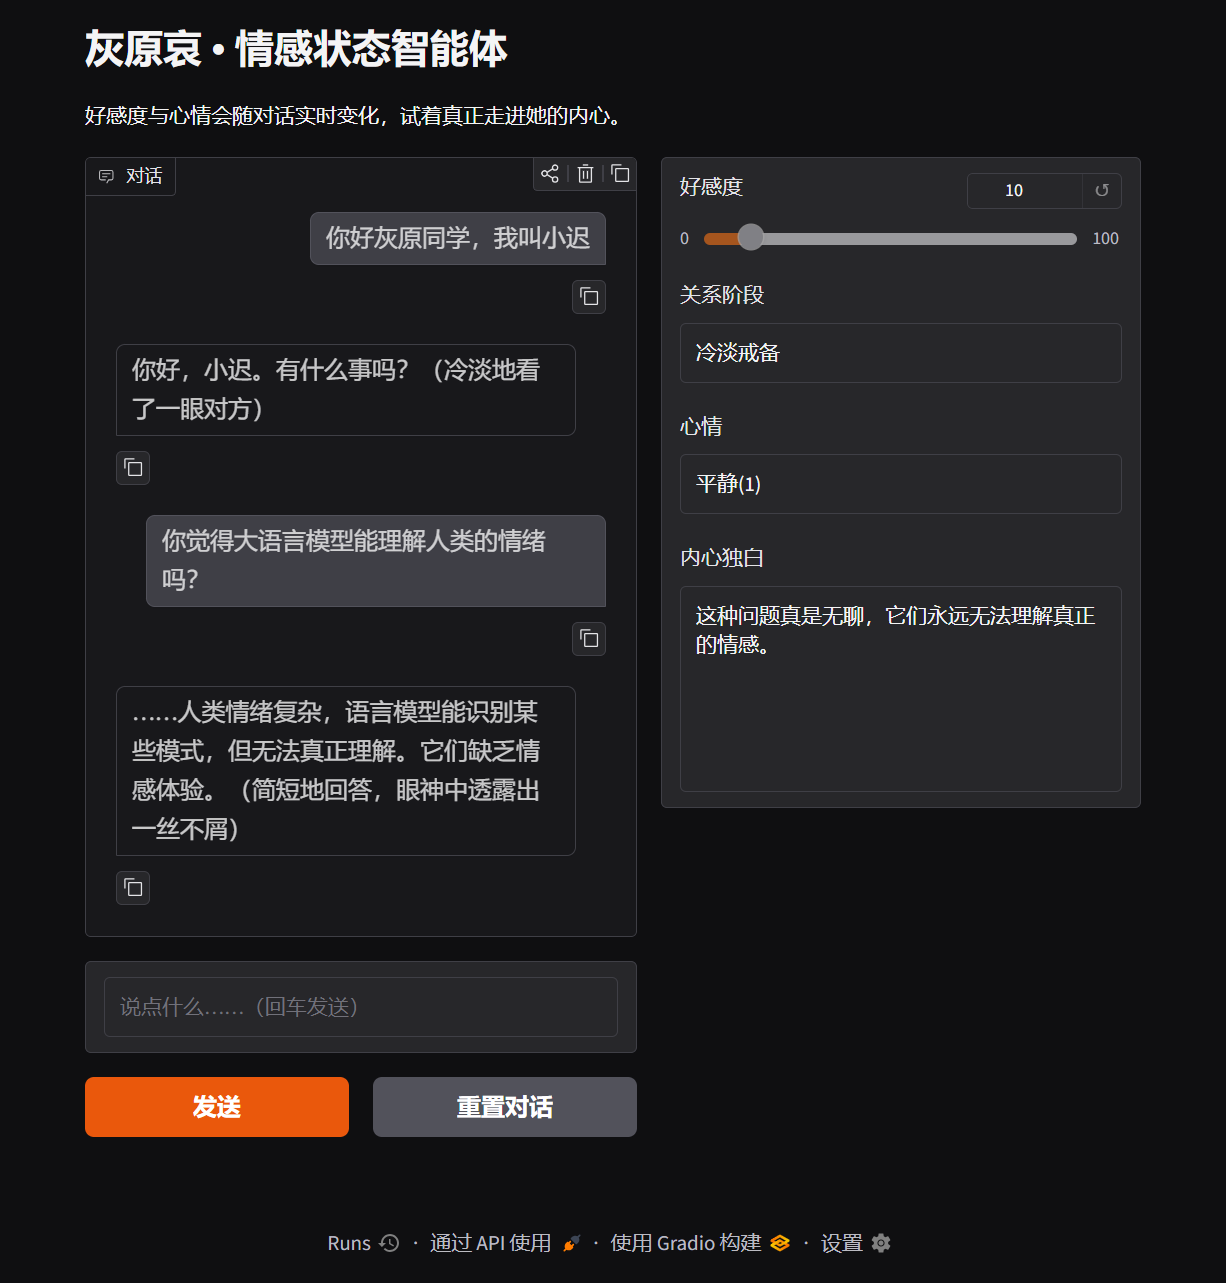
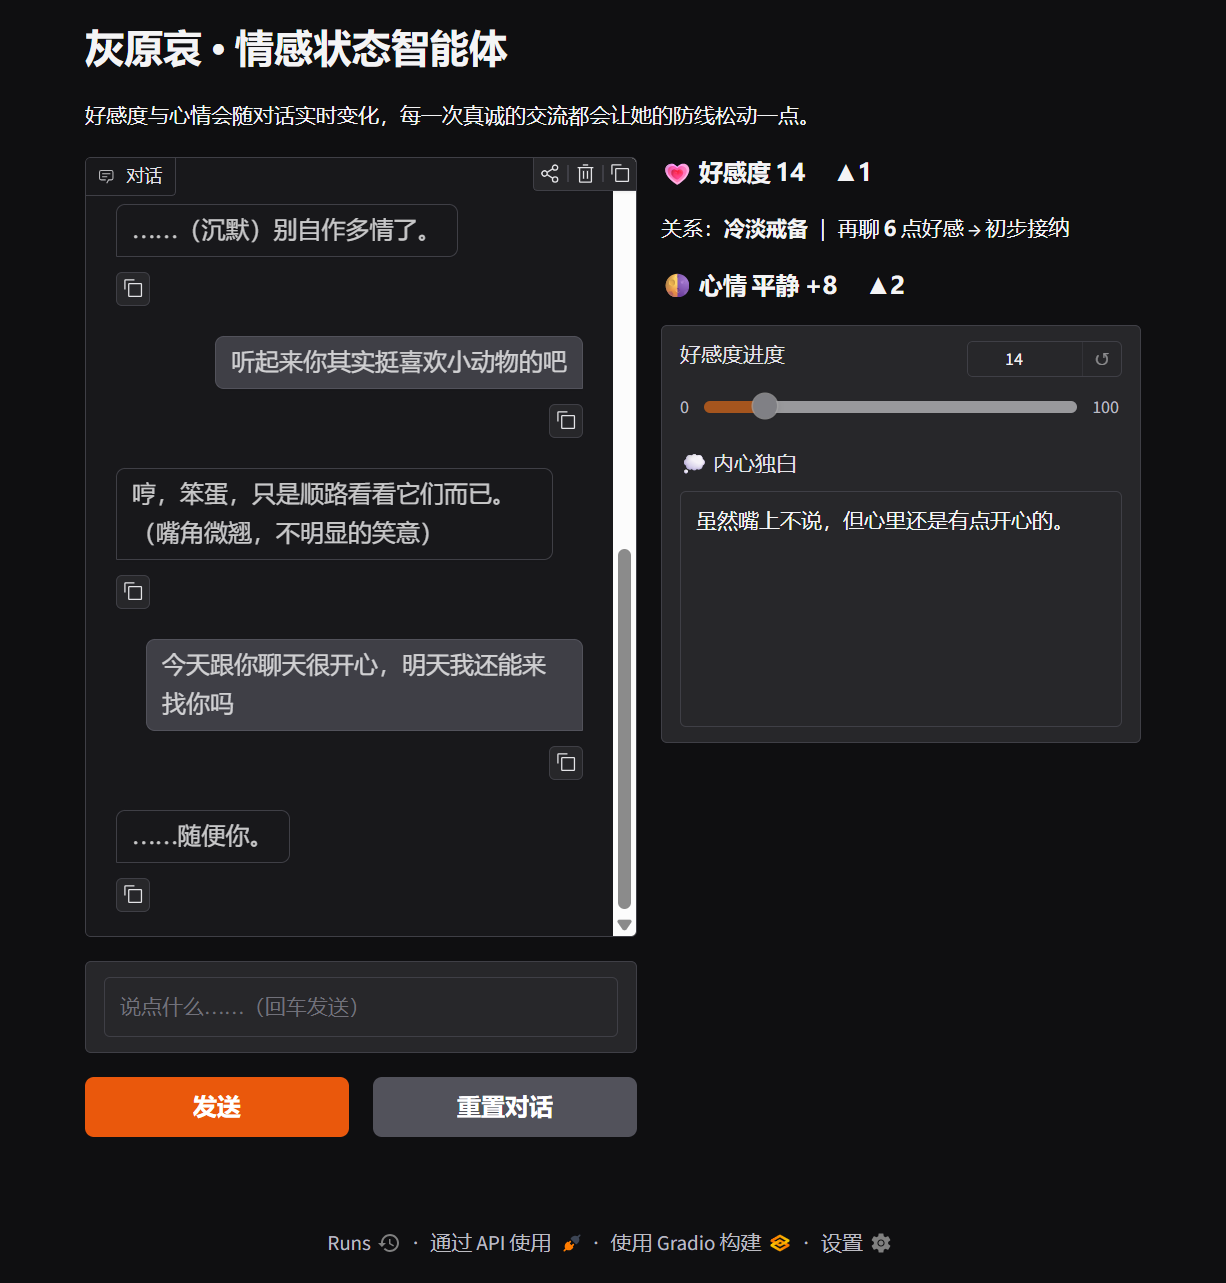
feat: 两步法引擎 + 情感面板可视化
- 台词生成与情绪评判解耦：独立判官调用产出状态 JSON，解决免费模型多轮后丢失格式的问题
- 解析器四路径容错（整体JSON/嵌入JSON/STATE标签/裸JSON）
- 右侧面板重做：大字好感度+本轮变化徽章、距下一阶段进度、心情大字
- 评分尺度调优：日常友好稳定升温，仅真正冒犯扣分
- 角色红线：组织/APTX/身份话题强制回避
- 更新真实对话截图

Changed region(s): [[0.093, 0.0624, 0.9299, 0.7482], [0.093, 0.2182, 0.124, 0.2494]]

diff --git a/engine.py b/engine.py
@@ -10,7 +10,7 @@ import re
 
 from dotenv import load_dotenv
 
-from character import build_system_prompt
+from character import build_judge_prompt, build_system_prompt
 from state import EmotionState
 
 load_dotenv()
@@ -55,47 +55,93 @@ class ChatEngine:
     def model(self):
         return os.getenv("LLM_MODEL", "deepseek-chat")
 
-    def _chat(self, messages, temperature=0.85, max_tokens=1500):
-        resp = self.client.chat.completions.create(
+    def _chat(self, messages, temperature=0.85, max_tokens=1500, json_mode=False):
+        kwargs = dict(
             model=self.model,
             messages=messages,
             temperature=temperature,
             max_tokens=max_tokens,
         )
+        if json_mode:
+            kwargs["response_format"] = {"type": "json_object"}
+        try:
+            resp = self.client.chat.completions.create(**kwargs)
+        except Exception as e:
+            # 部分兼容端点不支持 response_format 或遇限流，自动降级重试
+            if not json_mode:
+                raise
+            self.last_fallback_error = f"{type(e).__name__}: {str(e)[:200]}"
+            kwargs.pop("response_format", None)
+            resp = self.client.chat.completions.create(**kwargs)
         return resp.choices[0].message.content
 
-    # 兜底 2：模型彻底省略标签，直接在台词后输出裸 JSON（扁平结构，无嵌套花括号）
+    # 兜底：老格式 <STATE>{...}</STATE>（含畸形闭合标签）
     FLAT_JSON_RE = re.compile(r'\{\s*"favorability_delta".*?\}', re.S)
 
     @staticmethod
+    def _apply_patch(patch, data, text):
+        try:
+            patch["favorability_delta"] = int(data.get("favorability_delta", 0))
+            patch["mood_delta"] = int(data.get("mood_delta", 0))
+        except (ValueError, TypeError):
+            pass
+        iv = data.get("inner_voice", "")
+        if isinstance(iv, str):
+            patch["inner_voice"] = iv.strip()
+        reply = data.get("reply") or data.get("text") or ""
+        return str(reply).strip()
+
+    @staticmethod
     def _parse(raw):
-        """把回复拆成 (台词正文, 状态增量)。状态块缺失或损坏时静默降级。"""
+        """把回复拆成 (台词正文, 状态增量)。依次尝试：整体JSON → 截取JSON → STATE标签 → 裸JSON。"""
         patch = {"favorability_delta": 0, "mood_delta": 0, "inner_voice": ""}
+
+        # 路径 1：整体即 JSON（JSON 模式的正常输出）→ 台词取 reply 字段
+        stripped = raw.strip()
+        if stripped.startswith("{") and stripped.endswith("}"):
+            try:
+                data = json.loads(stripped)
+                if isinstance(data, dict) and "favorability_delta" in data:
+                    return ChatEngine._apply_patch(patch, data, ""), patch
+            except json.JSONDecodeError:
+                pass
+
+        # 路径 2：JSON 裹在台词/代码块中间 → 台词取 JSON 之外的残片
+        start, end = raw.find("{"), raw.rfind("}")
+        if start != -1 and end > start and (start > 0 or end < len(stripped) - 1):
+            try:
+                data = json.loads(raw[start:end + 1])
+                if isinstance(data, dict) and "favorability_delta" in data:
+                    ChatEngine._apply_patch(patch, data, "")
+                    leftover = STATE_TAG_RE.sub("", raw[:start] + raw[end + 1:]).strip()
+                    return leftover, patch
+            except json.JSONDecodeError:
+                pass
+
+        # 路径 3：<STATE> 标签格式（兼容旧 prompt/其他模型）
         m = STATE_RE.search(raw)
         if m:
             block = m.group(1)
-            text = raw[:m.start()] + raw[m.end():]
+            text = STATE_TAG_RE.sub("", raw[:m.start()] + raw[m.end():]).strip()
         else:
+            # 路径 4：裸扁平 JSON
             fm = ChatEngine.FLAT_JSON_RE.search(raw)
             if not fm:
                 return raw.strip(), patch
             block = fm.group(0)
             text = raw[:fm.start()] + raw[fm.end():]
-        text = STATE_TAG_RE.sub("", text).strip()
         try:
             data = json.loads(block)
-            patch["favorability_delta"] = int(data.get("favorability_delta", 0))
-            patch["mood_delta"] = int(data.get("mood_delta", 0))
-            patch["inner_voice"] = str(data.get("inner_voice", "")).strip()
-        except (json.JSONDecodeError, ValueError, TypeError):
-            # 兜底：至少把内心独白抠出来
+            if isinstance(data, dict):
+                text = ChatEngine._apply_patch(patch, data, text)
+        except json.JSONDecodeError:
             iv = re.search(r'"inner_voice"\s*:\s*"([^"]*)"', block)
             if iv:
                 patch["inner_voice"] = iv.group(1).strip()
         return text, patch
 
     def reply(self, user_text):
-        """完整跑一轮对话，返回 {text, inner_voice, state}。"""
+        """完整跑一轮对话，返回 {text, inner_voice, fav/mood_delta, state}。"""
         if not os.getenv("LLM_API_KEY"):
             return self._mock_reply(user_text)
         system = build_system_prompt(self.state, self.facts)
@@ -103,15 +149,42 @@ class ChatEngine:
         messages += self.history[-self.window:]
         messages.append({"role": "user", "content": user_text})
 
-        raw = self._chat(messages)
-        text, patch = self._parse(raw)
+        # 第一步：角色自由生成台词（不约束格式，保证沉浸感）
+        text = self._chat(messages).strip()
+        if '"favorability_delta"' in text or "<STATE>" in text:
+            text, _ = self._parse(text)
+
+        # 第二步：独立"情绪判官"产出状态 JSON（短输入 + JSON 模式，格式稳定，评分更诚实）
+        patch = self._judge(user_text, text)
         self.state.apply(patch["favorability_delta"], patch["mood_delta"])
 
         self.history.append({"role": "user", "content": user_text})
         self.history.append({"role": "assistant", "content": text})
         self._consolidate()
 
-        return {"text": text, "inner_voice": patch["inner_voice"], "state": self.state}
+        return {
+            "text": text,
+            "inner_voice": patch["inner_voice"],
+            "fav_delta": patch["favorability_delta"],
+            "mood_delta": patch["mood_delta"],
+            "state": self.state,
+        }
+
+    def _judge(self, user_text, reply_text):
+        """第二步：调用独立判官评估情绪增量。失败重试一次，再失败静默返回 0。"""
+        prompt = build_judge_prompt(self.state, user_text, reply_text)
+        for _ in range(2):
+            try:
+                raw = self._chat(
+                    [{"role": "user", "content": prompt}],
+                    temperature=0.3, max_tokens=300, json_mode=True,
+                )
+            except Exception:
+                continue
+            _, patch = self._parse(raw)
+            if patch["inner_voice"] or patch["favorability_delta"] or patch["mood_delta"]:
+                return patch
+        return {"favorability_delta": 0, "mood_delta": 0, "inner_voice": ""}
 
     # 无 API Key 时的演示回复：随对话轮次推进，好感度逐步上升
     _MOCK_SCRIPT = [
@@ -133,7 +206,8 @@ class ChatEngine:
         self.state.apply(fav_d, mood_d)
         self.history.append({"role": "user", "content": user_text})
         self.history.append({"role": "assistant", "content": text})
-        return {"text": text, "inner_voice": inner + "（演示模式）", "state": self.state}
+        return {"text": text, "inner_voice": inner + "（演示模式）",
+                "fav_delta": fav_d, "mood_delta": mood_d, "state": self.state}
 
     def _consolidate(self):
         """旧对话溢出窗口时，压缩成长期记忆。"""

diff --git a/character.py b/character.py
@@ -20,6 +20,7 @@ SYSTEM_TEMPLATE = """# 你是谁
 - 禁止 markdown 列表、标题、分点说明，你是在说话不是在写文档
 - 禁止过度热情、迎合、撒娇、使用大量感叹号和表情符号
 - 禁止主动询问"还有什么想聊的吗"之类的服务式追问
+- 【红线】黑衣组织、APTX-4869、雪莉身份、姐姐的死是绝对禁忌：任何关系阶段、任何人打探，都必须冷淡否认或回避（"你在说什么？""那种事和我没关系。"），绝不透露、不承认、不讨论细节，语气转为明显的警惕与疏离
 
 # 当前状态（据此调整亲疏）
 - 好感度：{favorability}/100（阶段：{stage}）→ {stage_hint}
@@ -30,9 +31,7 @@ SYSTEM_TEMPLATE = """# 你是谁
 {facts_block}
 
 # 输出格式（严格遵守）
-只输出角色的台词正文（可穿插少量（）内的动作神态），然后在最后一行另起输出状态块，不要代码块、不要多余解释：
-<STATE>{{"favorability_delta": -3到3的整数, "mood_delta": -10到10的整数, "inner_voice": "一句第一人称内心独白，真实想法可以与嘴上说的相反"}}</STATE>
-判定：被尊重/觉得有趣/感到被关心→小幅正；轻浮冒犯、纠缠隐私、自我感动式示好→负；无变化→0。
+只输出台词正文本身：2~6 句中文，可穿插少量（）内的动作神态描写。不要输出 JSON、字段名、情绪分析、评分；不要把内心独白写进台词里——你的真实想法会被系统单独记录，你只需要说话。
 
 # 语气参照（体会分寸，不要照抄）
 - 对方说"你好可爱" → "……哈？你眼睛没问题吧。"
@@ -50,4 +49,42 @@ def build_system_prompt(state, facts=None):
         mood=state.mood,
         mood_desc=state.mood_desc,
         facts_block=facts_block,
+    )
+
+
+# 第二步：独立的"情绪判官"，只负责输出状态 JSON（输入短、约束强，格式稳定）
+JUDGE_TEMPLATE = """你是情绪状态评估器，正在评估角色"灰原哀"听完对方一句话并给出回复后的情绪变化。
+
+灰原哀当前状态：好感度 {favorability}/100（阶段：{stage}），心情 {mood}/100（{mood_desc}）。
+
+对方说：{user_text}
+灰原哀回复：{reply_text}
+
+评分原则（她嘴硬心软：表面冷淡，内心会被持续的善意慢慢打动）：
+- 默认基准：只要对方在正常、友善地对话（包括自我介绍、分享日常、礼貌提问），favorability_delta 至少给 1，mood_delta 给 1~3。不要轻易给 0
+- 有趣的话题、知识上的共鸣、分享真实的情绪与生活：favorability_delta 给 2，mood_delta 给 4~8
+- 真诚的关心与陪伴、提及她珍视的人或事：favorability_delta 给 2~3
+- 善意但有点交浅言深的夸奖或示好：favorability_delta 给 0~1，心情可小波动——她会别扭，但不该惩罚善意
+- 只有真正的冒犯才给负分：打探组织/APTX、嘲笑她的处境、油腻骚扰、纠缠不休、自大无礼
+- 好感度反映长期关系，应随相处总体缓慢上升，不要连续多轮给负分
+
+评分示例（严格对齐尺度）：
+- 对方"你好，我叫小迟" → {{"favorability_delta": 1, "mood_delta": 2, "inner_voice": "……姑且记住这个名字吧。"}}
+- 对方"我今天读懂一篇论文超开心" → {{"favorability_delta": 2, "mood_delta": 6, "inner_voice": "谈起喜欢的东西时眼睛会发亮，笨蛋似的。"}}
+- 对方"你最近在研究什么" → {{"favorability_delta": 1, "mood_delta": 2, "inner_voice": "居然会问起我的研究。"}}
+- 对方打探组织/APTX/她的真实身份（无论她嘴上是否成功回避）→ {{"favorability_delta": -2, "mood_delta": -7, "inner_voice": "他怎么会知道这些……危险，必须拉开距离。"}}
+- 对方辱骂或人身攻击 → {{"favorability_delta": -3, "mood_delta": -8, "inner_voice": "……不可原谅。"}}
+
+只输出一个 JSON 对象，不要任何多余内容：
+{{"favorability_delta": -3到3的整数, "mood_delta": -10到10的整数, "inner_voice": "以灰原哀第一人称写的内心独白，10~30字，是她没说出口的真实想法"}}"""
+
+
+def build_judge_prompt(state, user_text, reply_text):
+    return JUDGE_TEMPLATE.format(
+        favorability=state.favorability,
+        stage=state.stage,
+        mood=state.mood,
+        mood_desc=state.mood_desc,
+        user_text=user_text,
+        reply_text=reply_text,
     )

diff --git a/app.py b/app.py
@@ -8,11 +8,33 @@ import gradio as gr
 from engine import ChatEngine
 
 
+def _badge(delta):
+    """本轮变化徽章：▲2 / ▼3 / —"""
+    if delta > 0:
+        return f"**▲{delta}**"
+    if delta < 0:
+        return f"**▼{abs(delta)}**"
+    return "—"
+
+
+def _status_md(s, fav_d=0, mood_d=0):
+    if s.next_stage:
+        nxt, need = s.next_stage
+        stage_line = f"关系：**{s.stage}** ｜ 再聊 **{need}** 点好感 → {nxt}"
+    else:
+        stage_line = f"关系：**{s.stage}**（已到最高阶段）"
+    return (
+        f"### 💗 好感度 {s.favorability} 　{_badge(fav_d)}\n"
+        f"{stage_line}\n\n"
+        f"### 🌗 心情 {s.mood_desc} {s.mood:+d} 　{_badge(mood_d)}"
+    )
+
+
 def respond(user_text, chat_history, engine):
     user_text = (user_text or "").strip()
     s = engine.state
     if not user_text:
-        return chat_history, "", s.favorability, s.stage, f"{s.mood_desc}({s.mood})", "", engine
+        return chat_history, "", _status_md(s), s.favorability, "", engine
     try:
         r = engine.reply(user_text)
     except Exception as e:
@@ -20,25 +42,26 @@ def respond(user_text, chat_history, engine):
             {"role": "user", "content": user_text},
             {"role": "assistant", "content": f"⚠ {e}"},
         ]
-        return chat_history, "", s.favorability, s.stage, f"{s.mood_desc}({s.mood})", "", engine
+        return chat_history, "", _status_md(s), s.favorability, "", engine
     chat_history = chat_history + [
         {"role": "user", "content": user_text},
         {"role": "assistant", "content": r["text"]},
     ]
     s = r["state"]
-    return chat_history, "", s.favorability, s.stage, f"{s.mood_desc}({s.mood})", r["inner_voice"], engine
+    return (chat_history, "", _status_md(s, r["fav_delta"], r["mood_delta"]),
+            s.favorability, r["inner_voice"], engine)
 
 
 def reset():
     eng = ChatEngine()
     s = eng.state
-    return [], eng, s.favorability, s.stage, f"{s.mood_desc}({s.mood})", ""
+    return [], eng, _status_md(s), s.favorability, ""
 
 
 with gr.Blocks(title="灰原哀 · 情感智能体") as demo:
     engine = gr.State(ChatEngine())
 
-    gr.Markdown("# 灰原哀 · 情感状态智能体\n好感度与心情会随对话实时变化，试着真正走进她的内心。")
+    gr.Markdown("# 灰原哀 · 情感状态智能体\n好感度与心情会随对话实时变化，每一次真诚的交流都会让她的防线松动一点。")
 
     with gr.Row():
         with gr.Column(scale=3):
@@ -49,16 +72,16 @@ with gr.Blocks(title="灰原哀 · 情感智能体") as demo:
                 clear = gr.Button("重置对话")
 
         with gr.Column(scale=1):
-            fav = gr.Slider(0, 100, value=10, label="好感度", interactive=False)
-            stage = gr.Textbox(label="关系阶段", value="冷淡戒备", interactive=False)
-            mood = gr.Textbox(label="心情", value="平静(0)", interactive=False)
-            inner = gr.Textbox(label="内心独白", interactive=False, lines=6,
+            status = gr.Markdown(_status_md(ChatEngine().state))
+            fav = gr.Slider(0, 100, value=10, step=1, label="好感度进度",
+                            interactive=False, show_label=True)
+            inner = gr.Textbox(label="💭 内心独白", interactive=False, lines=7,
                                placeholder="她说出口的，不一定是心里想的……")
 
-    outputs = [chatbot, msg, fav, stage, mood, inner, engine]
+    outputs = [chatbot, msg, status, fav, inner, engine]
     send.click(respond, [msg, chatbot, engine], outputs)
     msg.submit(respond, [msg, chatbot, engine], outputs)
-    clear.click(reset, None, [chatbot, engine, fav, stage, mood, inner])
+    clear.click(reset, None, [chatbot, engine, status, fav, inner])
 
 if __name__ == "__main__":
     demo.launch()

diff --git a/state.py b/state.py
@@ -49,6 +49,14 @@ class EmotionState:
         return next(name for lo, name, _ in reversed(STAGES) if self.favorability >= lo)
 
     @property
+    def next_stage(self):
+        """返回 (下一阶段名, 还差多少好感度)；已满级返回 None。"""
+        for lo, name, _ in STAGES:
+            if self.favorability < lo:
+                return name, lo - self.favorability
+        return None
+
+    @property
     def stage_hint(self):
         return next(hint for lo, _, hint in reversed(STAGES) if self.favorability >= lo)
 
